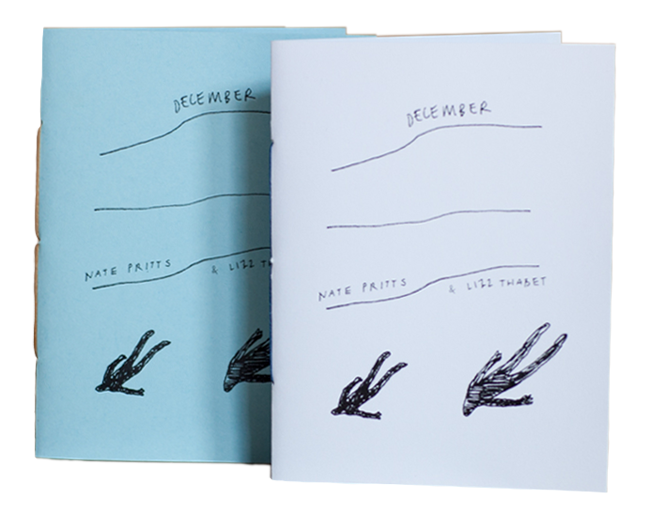
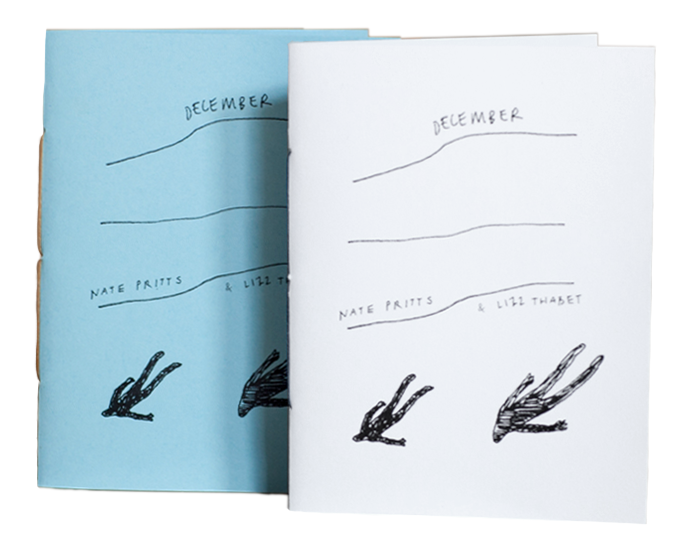
add book images to directory and page, add placeholder image classes, use gradient bg

diff --git a/content/publications.html b/content/publications.html
@@ -48,26 +48,50 @@
         <img class="medium" src="img/books/just-trying-cover.png" />
       </div>
     </div>
-    <div class="row main">
+    <div class="row main mt-60">
       <div class="col-xs-12">
         <h2><em>ROLAND BARTHES: CONTEMPORARY CRITICISM</em></h2>
         <p>Color laser saddle-stitched booklet (2015)</p>
         <p>Amazon.com reviews of Barthes' <em>Camera Lucida</em> organized by their helpfulness rating, last updated November 2015</p>
-        <img class="medium" src="img/books/barthes-1.jpg" /> <img class="medium" src="img/books/barthes-2.jpg" /> <img class="medium" src="img/books/barthes-3.jpg" />
+        <img class="medium" src="img/books/barthes-1.jpg" />
+        <img class="medium" src="img/books/barthes-2.jpg" /> <img class="medium" src="img/books/barthes-3.jpg" />
+        <p>Also: insert scan of photograph of sculpture with note, also comes with this photo of sculpture. Maybe add captions to each image.</p>
       </div>
     </div>
-    <div class="row main">
+    <div class="row main mt-60">
+      <div class="col-xs-12">
+        <h2><em>DECEMBER</em></h2>
+        <p>B&amp;W saddle-stiched booklet (2014)</p>
+        <p>A collaboration with <a href="http://www.nate-pritts.com" class="plain">Nate Pritts</a> of H_NGM_N, with words by Nate and drawings by Lizz. <br /> <b>Add more descriptive text to capture mood of poem.</b></p>
+        <img class="small-500w" src="img/books/december-cover.png" /> 
+        <!-- <p>
+          <img class="small-250w" src="img/books/december-swimming.gif" /> 
+          <img class="small-250w" src="img/books/december-walking.gif" /> 
+          <img class="small-250w" src="img/books/december-mooning.gif" />
+        </p>  -->
+      </div>
+    </div>
+    <div class="row main mt-60">
       <div class="col-xs-12">
         <h2><em>THAT WAS A BEAUTIFUL MORNING</em></h2>
         <p>Color saddle-stitched book (2013), edition of 50 signed copies</p>
         <p><em>That was a beautiful morning</em> is a collaboration between friends <a class="plain" href="http://www.robertdeitchler.com/">Robert Deitchler</a> and Lizz Thabet, following the discovery of a dead robin on their doorstep. Nine months later, their conversation uncovered different meanings that experience held for each of them: for Robert, it was the story of faith and childhood; for Lizz, it was the story of an unusual and intimate exchange. This book honors their experiences and weaves together a tale about those moments of connection and intuition, and the symbols that guide people’s lives. It speaks to the power of storytelling that goes beyond the content of any specific narrative.</p>
+        <p>
+          <img class="small-250w" src="img/books/that-beautiful-morning-can.png" />
+          <img class="small-250w" src="img/books/that-beautiful-morning-spoon.png" />
+          <img class="small-250w" src="img/books/that-beautiful-morning-phone.png" />
+        </p>
+        <p>
+          <img class="small-500w" src="img/books/that-beautiful-morning-photo-excerpt.png" />
+        </p>
       </div>
     </div>
-    <div class="row main">
+    <div class="row main mt-60">
       <div class="col-xs-12">
         <h2><em>SOME THINGS I DREW THAT ONE TIME AND THEN PHOTOCOPIED TO GIVE TO YOU</em></h2>
         <p>B&amp;W laser saddle-stitched booklet with handdrawn cover (2013)</p>
         <p>Early sketckbook selections</p>
+        <img class="medium" src="img/books/some-things-cover.png" />
       </div>
     </div>
 

diff --git a/content/css/styles.css b/content/css/styles.css
@@ -1,9 +1,9 @@
 html, body {
-/*	background: linear-gradient(#EBEBEB,white);
+	background: linear-gradient(#EBEBEB,white);
 	background-repeat: no-repeat;
 	background-attachment: fixed;
-	background-color: white;*/
-	background-color: #EBEBEB;
+	background-color: white;
+	/*background-color: #EBEBEB;*/
 	font-family: 'Inconsolata', monospace;
 	-webkit-font-smoothing: antialiased;
 }
@@ -99,6 +99,22 @@ li {
 .small {
 	display:block;
 	max-width:250px;
+	width:100%;
+	height:auto;
+	margin:30px 0 10px 0;
+}
+
+.small-250w {
+	display:inline-block;
+	max-width:250px;
+	width:100%;
+	height:auto;
+	margin:30px 0 10px 0;
+}
+
+.small-500w {
+	display:inline-block;
+	max-width:500px;
 	width:100%;
 	height:auto;
 	margin:30px 0 10px 0;
